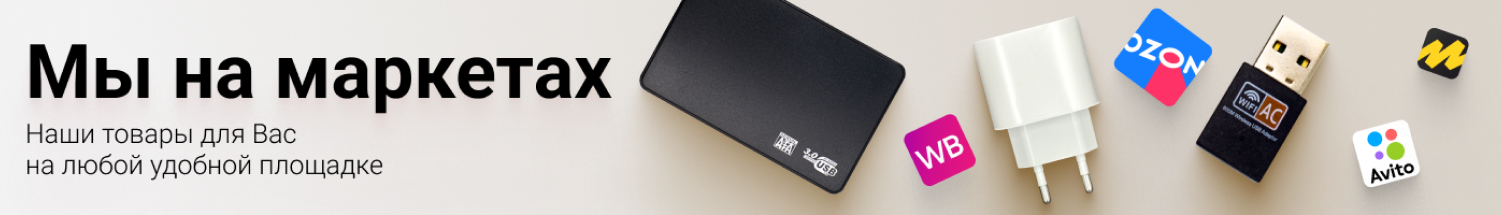
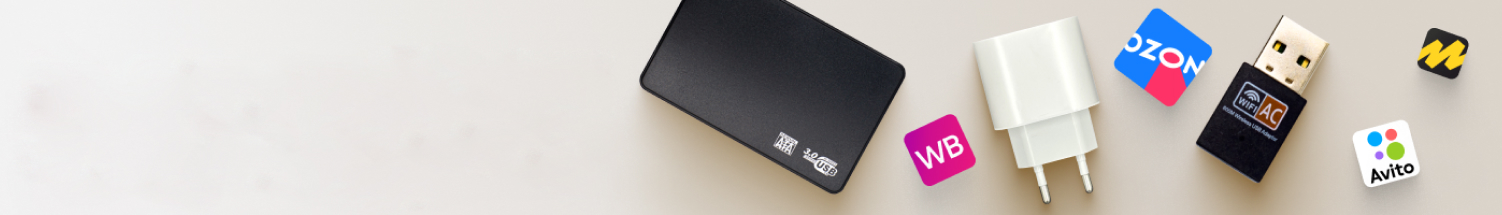
доделала баннер

Changed region(s): [[0.0, 0.1953, 0.4288, 0.5302], [0.0, 0.7256, 0.2756, 0.8372], [0.0, 0.5581, 0.2144, 0.6698]]

diff --git a/src/pages/catalog-page.tsx b/src/pages/catalog-page.tsx
@@ -2,7 +2,6 @@ import { Helmet } from 'react-helmet-async';
 import Layout from '../components/layout';
 import CatalogCards from '../components/catalog-cards';
 
-/*!TODO поменять на картинку без надписи и доделать верстку баннера*/
 function CatalogPage() {
   return (
     <div className="wrapper">
@@ -12,18 +11,19 @@ function CatalogPage() {
 
       <Layout>
         <main>
-          <div className="page-content">
-            <section className="banner">
-              <div className="container">
-                <img className="banner__img" src="/images/banner.jpg" alt="Баннер" />
+          <section className="banner">
+            <div className="container">
+              <div className="banner__inner">
+                <h1 className="banner__title">Мы&nbsp;на&nbsp;маркетах</h1>
+                <h2 className="banner__subtitle">Наши товары для Вас на&nbsp;любой удобной площадке</h2>
               </div>
-            </section>
-            <section className="catalog">
-              <div className="container">
-                <CatalogCards />
-              </div>
-            </section>
-          </div>
+            </div>
+          </section>
+          <section className="catalog">
+            <div className="container">
+              <CatalogCards />
+            </div>
+          </section>
         </main>
       </Layout>
     </div>

diff --git a/src/pages/basket-page.tsx b/src/pages/basket-page.tsx
@@ -10,13 +10,11 @@ function BasketPage() {
 
       <Layout>
         <main>
-          <div className="page-content">
-            <section className="cart">
-              <div className="container">
-                <h1 className="title">Корзина заказов</h1>
-              </div>
-            </section>
-          </div>
+          <section className="cart">
+            <div className="container">
+              <h1 className="title">Корзина заказов</h1>
+            </div>
+          </section>
         </main>
       </Layout>
     </div>

diff --git a/src/styles/main.scss b/src/styles/main.scss
@@ -76,6 +76,24 @@
 /*---------- banner ----------*/
 .banner {
   margin: 18px 0;
+  &__inner {
+    background-image: url("/public/images/banner.jpg");
+    background-position: center;
+    background-size: cover;
+    background-repeat: no-repeat;
+    width: 100%;
+    height: 215px;
+    padding: 30px;
+  }
+  &__title {
+    font-size: 76px;
+    max-width: 600px;
+  }
+  &__subtitle {
+    font-size: 27px;
+    font-weight: 400;
+    max-width: 400px;
+  }
 }
 
 /*---------- catalog ----------*/
